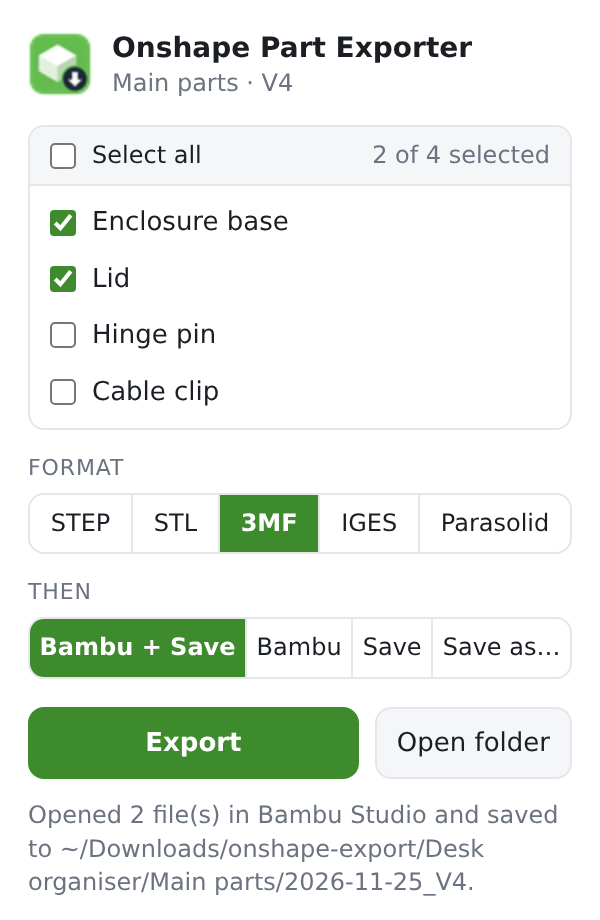
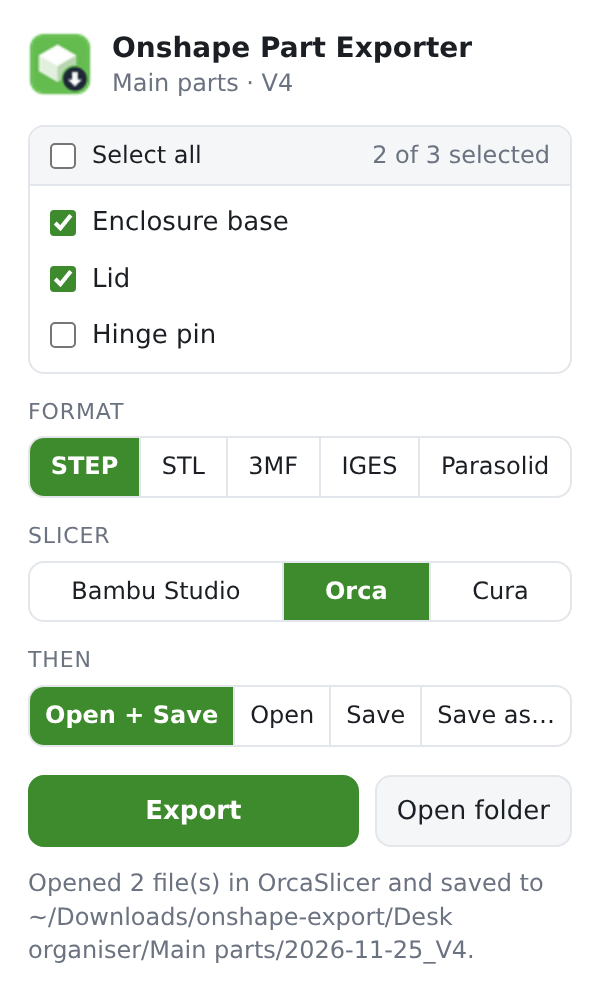
Add OrcaSlicer and UltiMaker Cura support
- New "Slicer" choice in the popup (Bambu Studio / Orca / Cura); the
  "Open" actions are disabled for formats the slicer can't open
  (Cura: STL and 3MF only)
- Helper finds each slicer on Linux (Flatpak, PATH, AppImage), Windows
  (default install folders, newest Cura version) and macOS (/Applications)
- Internal mode "bambu" renamed to "open"; old messages still accepted

diff --git a/onshape-exporter/popup.js b/onshape-exporter/popup.js
@@ -89,7 +89,7 @@ $("export").addEventListener("click", () => {
   const parts = [...document.querySelectorAll("#parts input:checked")].map((b) => ({ id: b.value, name: b.dataset.name }));
   if (!parts.length) { $("status").textContent = "Pick at least one part."; return; }
   // The background worker does the export, so closing this popup doesn't stop it.
-  chrome.runtime.sendMessage({ type: "export", tabId, doc, parts, format: radio("format"), action: radio("action"), folder });
+  chrome.runtime.sendMessage({ type: "export", tabId, doc, parts, format: radio("format"), slicer: radio("slicer"), action: radio("action"), folder });
 });
 
 const HOST = "io.github.globiii.onshape_bambu";
@@ -99,36 +99,36 @@ $("open").addEventListener("click", async () => {
     const reply = await chrome.runtime.sendNativeMessage(HOST, { openFolder: true, folder });
     $("status").textContent = reply.err ? `Helper error: ${reply.err}` : `Opened ${reply.dir}`;
   } catch (e) {
-    $("status").textContent = `Bambu helper not installed (${e.message}).`;
+    $("status").textContent = `Helper not installed (${e.message}).`;
   }
 });
 
 chrome.runtime.onMessage.addListener((msg) => { if (msg.type === "status") $("status").textContent = msg.text; });
 chrome.runtime.sendMessage({ type: "getStatus" }).then((t) => { if (t) $("status").textContent = t; }).catch(() => {});
 
-// Remember the last choices (default STEP + Both); storage can be unavailable, so never let it break the popup.
-// "last-" keys are new so an older saved "Open in Bambu" choice doesn't override the new default.
-for (const [id, def] of [["format", "STEP"], ["action", "both"]]) {
+// Remember the last choices (default STEP + Bambu + Open & Save); storage can be unavailable, so never let it break the popup.
+const RENAMED = { download: "save", bambu: "open" };  // older saved choices
+for (const [id, def] of [["format", "STEP"], ["slicer", "bambu"], ["action", "both"]]) {
   const key = `last-${id}`;
   setRadio(id, def);
   try {
     const saved = localStorage.getItem(key);
-    setRadio(id, saved === "download" ? "save" : saved || def);  // "download" was renamed to "save"
+    if (saved) setRadio(id, id === "action" ? RENAMED[saved] || saved : saved);
   } catch {}
   document.querySelectorAll(`input[name="${id}"]`).forEach((r) =>
     r.addEventListener("change", () => { try { localStorage.setItem(key, r.value); } catch {} }));
 }
 
-// Bambu Studio can't open IGES/Parasolid: disable the Bambu choices and fall back to Save.
-const BAMBU_FORMATS = ["STEP", "STL", "3MF"];
+// Which formats each slicer opens; for anything else the "Open" choices are disabled and it falls back to Save.
+const SLICER_FORMATS = { bambu: ["STEP", "STL", "3MF"], orca: ["STEP", "STL", "3MF"], cura: ["STL", "3MF"] };
 function syncActions() {
-  const bambuOk = BAMBU_FORMATS.includes(radio("format"));
-  document.querySelectorAll('input[name="action"][value="both"], input[name="action"][value="bambu"]').forEach((r) => {
-    r.disabled = !bambuOk;
+  const canOpen = SLICER_FORMATS[radio("slicer")].includes(radio("format"));
+  document.querySelectorAll('input[name="action"][value="both"], input[name="action"][value="open"]').forEach((r) => {
+    r.disabled = !canOpen;
   });
-  if (!bambuOk && ["both", "bambu"].includes(radio("action"))) setRadio("action", "save");
+  if (!canOpen && ["both", "open"].includes(radio("action"))) setRadio("action", "save");
 }
-document.querySelectorAll('input[name="format"]').forEach((r) => r.addEventListener("change", syncActions));
+document.querySelectorAll('input[name="format"], input[name="slicer"]').forEach((r) => r.addEventListener("change", syncActions));
 syncActions();
 
 init().catch((e) => { $("parts").textContent = `Error: ${e.message}`; }).finally(() => {

diff --git a/onshape-exporter/popup.html b/onshape-exporter/popup.html
@@ -69,19 +69,28 @@
   <div class="field" role="radiogroup" aria-label="Format">
     <span>Format</span>
     <div class="seg">
-      <label title="Bambu: yes"><input type="radio" name="format" value="STEP"> STEP</label>
-      <label title="Bambu: yes (mm)"><input type="radio" name="format" value="STL"> STL</label>
-      <label title="Bambu: yes, native format"><input type="radio" name="format" value="3MF"> 3MF</label>
-      <label title="CAD exchange, not for Bambu"><input type="radio" name="format" value="IGES"> IGES</label>
-      <label title="CAD exchange (.x_t), not for Bambu"><input type="radio" name="format" value="PARASOLID"> Parasolid</label>
+      <label title="Opens in Bambu and Orca"><input type="radio" name="format" value="STEP"> STEP</label>
+      <label title="Opens in all slicers (mm)"><input type="radio" name="format" value="STL"> STL</label>
+      <label title="Opens in all slicers"><input type="radio" name="format" value="3MF"> 3MF</label>
+      <label title="CAD exchange, not for slicers"><input type="radio" name="format" value="IGES"> IGES</label>
+      <label title="CAD exchange (.x_t), not for slicers"><input type="radio" name="format" value="PARASOLID"> Parasolid</label>
+    </div>
+  </div>
+
+  <div class="field" role="radiogroup" aria-label="Slicer">
+    <span>Slicer</span>
+    <div class="seg">
+      <label><input type="radio" name="slicer" value="bambu"> Bambu Studio</label>
+      <label><input type="radio" name="slicer" value="orca"> Orca</label>
+      <label title="Opens STL and 3MF (no STEP)"><input type="radio" name="slicer" value="cura"> Cura</label>
     </div>
   </div>
 
   <div class="field" role="radiogroup" aria-label="Then">
     <span>Then</span>
     <div class="seg">
-      <label title="Open in Bambu Studio and save to the export folders"><input type="radio" name="action" value="both"> Bambu + Save</label>
-      <label title="Open in Bambu Studio only"><input type="radio" name="action" value="bambu"> Bambu</label>
+      <label title="Open in the slicer and save to the export folders"><input type="radio" name="action" value="both"> Open + Save</label>
+      <label title="Open in the slicer only"><input type="radio" name="action" value="open"> Open</label>
       <label title="Save to ~/Downloads/onshape-export/<document>/<part studio>/<date>_<version>"><input type="radio" name="action" value="save"> Save</label>
       <label title="Pick a folder"><input type="radio" name="action" value="saveas"> Save as…</label>
     </div>

diff --git a/onshape-exporter/background.js b/onshape-exporter/background.js
@@ -92,14 +92,15 @@ function download(files, saveAs) {
   }
 }
 
+const SLICER_NAMES = { bambu: "Bambu Studio", orca: "OrcaSlicer", cura: "UltiMaker Cura" };
 const DONE = {
-  both: (n, dir) => `Opened ${n} file(s) in Bambu Studio and saved to ${dir}.`,
-  bambu: (n) => `Opened ${n} file(s) in Bambu Studio.`,
+  both: (n, dir, app) => `Opened ${n} file(s) in ${app} and saved to ${dir}.`,
+  open: (n, dir, app) => `Opened ${n} file(s) in ${app}.`,
   save: (n, dir) => `Saved ${n} file(s) to ${dir}.`,
   saveas: (n, dir) => `Saved ${n} file(s) to ${dir}.`,
 };
 
-async function runExport({ tabId, doc, parts, format, action, folder }) {
+async function runExport({ tabId, doc, parts, format, slicer, action, folder }) {
   setStatus(`Exporting ${parts.length} part(s) as ${format}…`, "…");
   // A long-running executeScript is not activity; ping an API so Chrome keeps this worker alive.
   const keepAlive = setInterval(() => chrome.runtime.getPlatformInfo(), 20000);
@@ -109,13 +110,13 @@ async function runExport({ tabId, doc, parts, format, action, folder }) {
     if (res.err) return setStatus(res.err, "!");
     if (action === "saveas") setStatus("Choose a folder in the dialog…", "…");
     try {
-      const reply = await chrome.runtime.sendNativeMessage(HOST, { files: res.ok, mode: action, folder });
+      const reply = await chrome.runtime.sendNativeMessage(HOST, { files: res.ok, mode: action, slicer, folder });
       if (reply.cancelled) return setStatus("Save cancelled.", "");
       if (reply.err) return setStatus(`Helper error: ${reply.err}`, "!");
-      setStatus((DONE[action] || DONE.both)(res.ok.length, reply.dir), "✓");
+      setStatus((DONE[action] || DONE.both)(res.ok.length, reply.dir, SLICER_NAMES[slicer] || "the slicer"), "✓");
     } catch (e) {
       download(res.ok, action === "saveas");
-      setStatus(`Bambu helper not installed (${e.message}); downloaded with Chrome instead.`, "!");
+      setStatus(`Helper not installed (${e.message}); downloaded with Chrome instead.`, "!");
     }
   } catch (e) {
     setStatus(`Export failed: ${e.message}`, "!");

diff --git a/bambu_host.py b/bambu_host.py
@@ -1,5 +1,5 @@
 #!/usr/bin/env python3
-"""Chrome native-messaging helper: saves files sent by the Onshape extension and opens them in Bambu Studio."""
+"""Chrome native-messaging helper: saves files sent by the Onshape extension and opens them in a slicer."""
 import base64
 import os
 import json
@@ -15,11 +15,27 @@ WINDOWS = sys.platform == "win32"
 MAC = sys.platform == "darwin"
 # Both inside $HOME so the Bambu Flatpak can read them.
 OUT_ROOT = Path.home() / "Downloads" / "onshape-export"  # "both": user keeps the files
-CACHE_ROOT = OUT_ROOT / ".temp"  # "bambu only": temporary; not directly in ~/.* because snaps can't read that
+CACHE_ROOT = OUT_ROOT / ".temp"  # "open only": temporary; not directly in ~/.* because snaps can't read that
 CACHE_DAYS = 7
-FLATPAK_ID = "com.bambulab.BambuStudio"
 ALLOWED_EXT = {".stl", ".step", ".3mf", ".igs", ".x_t"}
-BAMBU_EXT = {".stl", ".step", ".3mf"}  # what Bambu Studio can open
+# Where each slicer lives on each OS, and which of our formats it opens. Override with the env var.
+SLICERS = {
+    "bambu": dict(label="Bambu Studio", env="BAMBU_STUDIO", ext={".stl", ".step", ".3mf"},
+                  mac=["BambuStudio.app", "Bambu Studio.app"],
+                  win=["Bambu Studio/bambu-studio.exe", "Programs/Bambu Studio/bambu-studio.exe"],
+                  flatpak=["com.bambulab.BambuStudio"], path=["bambu-studio", "BambuStudio"],
+                  appimage="Bambu*Studio*.AppImage"),
+    "orca": dict(label="OrcaSlicer", env="ORCA_SLICER", ext={".stl", ".step", ".3mf"},
+                 mac=["OrcaSlicer.app"],
+                 win=["OrcaSlicer/orca-slicer.exe", "Programs/OrcaSlicer/orca-slicer.exe"],
+                 flatpak=["com.orcaslicer.OrcaSlicer", "io.github.softfever.OrcaSlicer"], path=["orca-slicer", "OrcaSlicer"],
+                 appimage="OrcaSlicer*.AppImage"),
+    "cura": dict(label="UltiMaker Cura", env="ULTIMAKER_CURA", ext={".stl", ".3mf"},  # no STEP without a plugin
+                 mac=["UltiMaker Cura.app", "Ultimaker Cura.app"],
+                 win=["UltiMaker Cura*/UltiMaker-Cura.exe", "Ultimaker Cura*/Cura.exe"],  # folder name includes the version
+                 flatpak=["com.ultimaker.cura"], path=["cura", "UltiMaker-Cura"],
+                 appimage="*Cura*.AppImage"),
+}
 
 
 def read_msg():
@@ -102,33 +118,37 @@ def prune_cache():
             shutil.rmtree(d, ignore_errors=True)
 
 
-def bambu_command():
-    """How to start Bambu Studio: $BAMBU_STUDIO, the Windows install folder, the macOS app, the Flatpak, or a
-    bambu-studio/AppImage on PATH or in ~/Applications."""
-    if os.environ.get("BAMBU_STUDIO"):
-        return [os.environ["BAMBU_STUDIO"]]
+def slicer_command(key):
+    """How to start a slicer: its env var, the macOS app, the Windows install folder, the Flatpak, a command on PATH
+    (snap, distro package) or an AppImage in ~/Applications."""
+    sl = SLICERS[key]
+    if os.environ.get(sl["env"]):
+        return [os.environ[sl["env"]]]
     if MAC:
         for apps in (Path("/Applications"), Path.home() / "Applications"):
-            for app in ("BambuStudio.app", "Bambu Studio.app"):
+            for app in sl["mac"]:
                 if (apps / app).is_dir():
                     return ["open", "-a", str(apps / app)]  # `open` hands the files to the app and returns
-        raise RuntimeError("BambuStudio.app not found in /Applications. Install it, or set BAMBU_STUDIO.")
-    if WINDOWS:
+    elif WINDOWS:
         # shortcut: checks the default install folders only, read the uninstall registry key if people install elsewhere
         for base in ("ProgramFiles", "ProgramFiles(x86)", "LOCALAPPDATA"):
-            for sub in ("Bambu Studio", r"Programs\Bambu Studio"):
-                exe = Path(os.environ.get(base, "")) / sub / "bambu-studio.exe"
-                if os.environ.get(base) and exe.is_file():
-                    return [str(exe)]
-    if shutil.which("flatpak") and subprocess.run(["flatpak", "info", FLATPAK_ID], capture_output=True).returncode == 0:
-        return ["flatpak", "run", FLATPAK_ID]
-    for name in ("bambu-studio", "BambuStudio"):  # snap, distro package, or a symlinked AppImage
-        if shutil.which(name):
-            return [shutil.which(name)]
-    appimages = sorted((Path.home() / "Applications").glob("Bambu*Studio*.AppImage"))
-    if appimages:
-        return [str(appimages[-1])]
-    raise RuntimeError("Bambu Studio not found. Install it, or set BAMBU_STUDIO to its path.")
+            if os.environ.get(base):
+                for pattern in sl["win"]:
+                    found = sorted(Path(os.environ[base]).glob(pattern))
+                    if found:
+                        return [str(found[-1])]  # newest version folder
+    else:
+        if shutil.which("flatpak"):
+            for app_id in sl["flatpak"]:
+                if subprocess.run(["flatpak", "info", app_id], capture_output=True).returncode == 0:
+                    return ["flatpak", "run", app_id]
+        for name in sl["path"]:
+            if shutil.which(name):
+                return [shutil.which(name)]
+        appimages = sorted((Path.home() / "Applications").glob(sl["appimage"]))
+        if appimages:
+            return [str(appimages[-1])]
+    raise RuntimeError(f"{sl['label']} not found. Install it, or set {sl['env']} to its path.")
 
 
 def pick_folder():
@@ -169,8 +189,9 @@ def main():
             else:
                 launch(["open" if MAC else "xdg-open", str(target)])
             return send_msg({"ok": True, "dir": str(target).replace(str(Path.home()), "~", 1)})
-        # mode: "both" (organised + Bambu), "bambu" (cache + Bambu), "save" (organised), "saveas" (picked folder).
-        mode = msg.get("mode") or ("both" if msg.get("keep") else "bambu")  # "keep" = older extension versions
+        # mode: "both" (organised + slicer), "open" (temp + slicer), "save" (organised), "saveas" (picked folder).
+        mode = msg.get("mode") or ("both" if msg.get("keep") else "open")  # "keep" = older extension versions
+        mode = {"bambu": "open"}.get(mode, mode)  # "bambu" = older name of "open"
         if mode in ("both", "save"):
             # Same day + same version = same folder; replaced files move to its archive/ subfolder.
             doc, studio, version = (msg.get("folder") or ["unsorted", "unsorted", ""])[:3]
@@ -184,9 +205,12 @@ def main():
             prune_cache()
             out_dir = CACHE_ROOT / time.strftime("%Y-%m-%d_%H-%M-%S")
         paths = save_files(msg["files"], out_dir, archive_old=mode != "saveas")
-        printable = [p for p in paths if Path(p).suffix in BAMBU_EXT]
-        if mode in ("both", "bambu") and printable:
-            launch([*bambu_command(), *printable])
+        slicer = msg.get("slicer") or "bambu"  # older extension versions only knew Bambu
+        if slicer not in SLICERS:
+            raise ValueError(f"unknown slicer: {slicer!r}")
+        printable = [p for p in paths if Path(p).suffix in SLICERS[slicer]["ext"]]
+        if mode in ("both", "open") and printable:
+            launch([*slicer_command(slicer), *printable])
         send_msg({"ok": True, "paths": paths, "dir": str(out_dir).replace(str(Path.home()), "~", 1)})
     except Exception as e:  # report back to the popup instead of dying silently
         send_msg({"err": str(e)})

diff --git a/README.md b/README.md
@@ -1,18 +1,19 @@
-# Onshape → Bambu Studio exporter
+# Onshape → slicer exporter (Bambu Studio, OrcaSlicer, Cura)
 
-A Chrome extension that exports parts from the Onshape Part Studio you have open and sends them straight to Bambu Studio, like Fusion's "Send to 3D print utility". You can also save them into a tidy folder tree, or anywhere you choose.
+A Chrome extension that exports parts from the Onshape Part Studio you have open and sends them straight to **Bambu Studio, OrcaSlicer or UltiMaker Cura**, like Fusion's "Send to 3D print utility". You can also save them into a tidy folder tree, or anywhere you choose.
 
 <img src="docs/popup.png" width="300" alt="Extension popup: part list, format and action choices">
 
-> **Beta.** Linux is tested (Ubuntu, Chrome, Bambu Studio Flatpak). **Windows and macOS support is new and not yet tested on real machines.** Bug reports are very welcome.
+> **Beta.** Linux with Bambu Studio is tested (Ubuntu, Chrome, Flatpak). OrcaSlicer and Cura support is new. **Windows and macOS support is new and not yet tested on real machines.** Bug reports are very welcome.
 
 ## Features
 
 - Pick which parts to export; each part becomes its own file.
 - Formats: **3MF**, **STEP**, **STL** (binary, millimetres), plus IGES and Parasolid for other CAD tools.
+- Slicer: **Bambu Studio**, **OrcaSlicer** or **UltiMaker Cura** (Cura opens STL and 3MF, not STEP).
 - Then:
-  - **Bambu + Save:** open in Bambu Studio and keep a copy in the folder tree
-  - **Bambu:** open in Bambu Studio only
+  - **Open + Save:** open in the slicer and keep a copy in the folder tree
+  - **Open:** open in the slicer only
   - **Save:** folder tree only
   - **Save as…:** pick any folder
 - Folder tree: `Downloads/onshape-export/<document>/<part studio>/<date>_<version>/`. Exporting the same version again moves the older files into `archive/<export time>/` instead of overwriting them.
@@ -21,7 +22,7 @@ A Chrome extension that exports parts from the Onshape Part Studio you have open
 
 ## Install
 
-You need a Chromium-based browser (Chrome, Edge, Brave, Chromium), Bambu Studio and Python 3.
+You need a Chromium-based browser (Chrome, Edge, Brave, Chromium), Python 3 and at least one of the slicers.
 
 ### Windows
 
@@ -30,7 +31,7 @@ You need a Chromium-based browser (Chrome, Edge, Brave, Chromium), Bambu Studio 
 3. Double-click **`install.bat`**.
 4. Open `chrome://extensions` (or `edge://extensions`), turn on **Developer mode**, click **Load unpacked** and pick the `onshape-exporter` folder.
 
-Bambu Studio is found in its default install folder. If yours is elsewhere, set the `BAMBU_STUDIO` environment variable to the full path of `bambu-studio.exe`.
+Slicers are found in their default install folders. If yours is elsewhere, set `BAMBU_STUDIO`, `ORCA_SLICER` or `ULTIMAKER_CURA` to the full path of its `.exe`.
 
 ### macOS
 
@@ -43,7 +44,7 @@ Bambu Studio is found in its default install folder. If yours is elsewhere, set 
    ```
 3. Load the `onshape-exporter` folder as an unpacked extension (see the Windows steps).
 
-Bambu Studio is found as `BambuStudio.app` in `/Applications` or `~/Applications`. The first export may make macOS ask whether Bambu Studio may access your Downloads folder; allow it.
+Slicers are found in `/Applications` or `~/Applications` (`BambuStudio.app`, `OrcaSlicer.app`, `UltiMaker Cura.app`). The first export may make macOS ask whether the slicer may access your Downloads folder; allow it.
 
 ### Linux
 
@@ -53,7 +54,7 @@ cd onshape-bambu-export
 ./install.sh
 ```
 
-Then load the `onshape-exporter` folder as an unpacked extension. "Save as…" uses `zenity` (preinstalled on Ubuntu). Bambu Studio is found as a Flatpak, a snap, `bambu-studio` on your PATH, or an AppImage in `~/Applications`; otherwise set `BAMBU_STUDIO=/path/to/bambu-studio`.
+Then load the `onshape-exporter` folder as an unpacked extension. "Save as…" uses `zenity` (preinstalled on Ubuntu). Slicers are found as a Flatpak, a snap/distro package on your PATH, or an AppImage in `~/Applications`; otherwise set `BAMBU_STUDIO`, `ORCA_SLICER` or `ULTIMAKER_CURA` to its path.
 
 ### What the installer does
 
@@ -69,7 +70,7 @@ Remove the extension in your browser, then run `python install.py --uninstall` (
 
 ## Disclaimer
 
-Unofficial hobby project. Not affiliated with or endorsed by Onshape / PTC Inc. or Bambu Lab. Use at your own risk.
+Unofficial hobby project. Not affiliated with or endorsed by Onshape / PTC Inc., Bambu Lab, the OrcaSlicer project or UltiMaker. Use at your own risk.
 
 ## License
 
